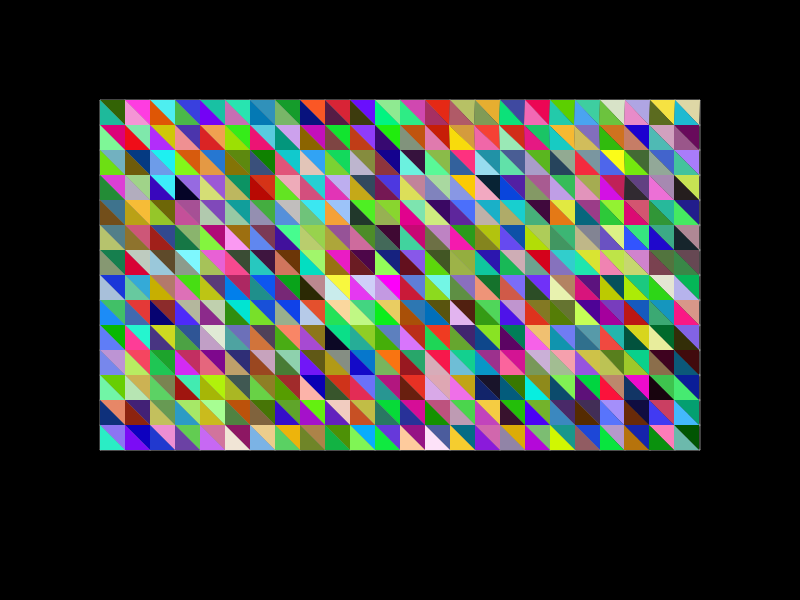
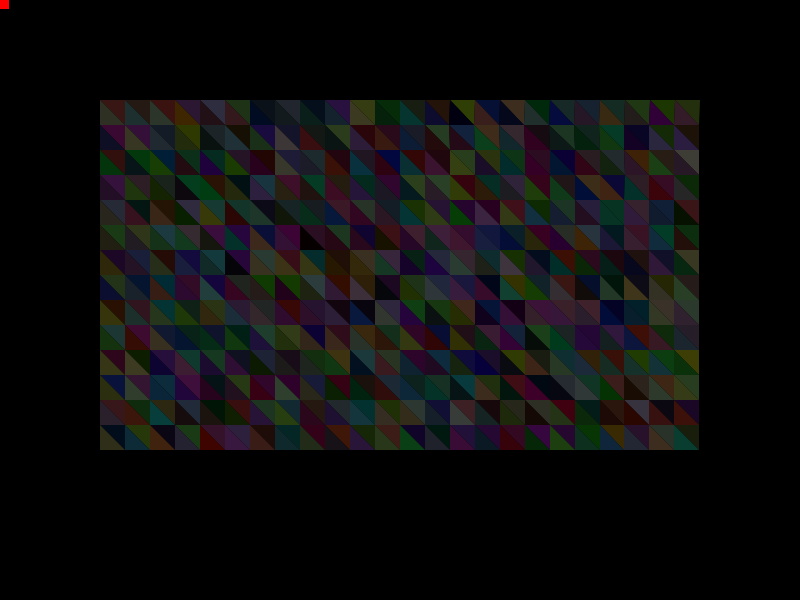
.

diff --git a/_drafts/2018-11-13-cloth-simulation-in-typescript.md b/_drafts/2018-11-13-cloth-simulation-in-typescript.md
@@ -69,9 +69,9 @@ And when the sphere is moving:
 
 I gave each of the springs a maximum stretch factor, and if it stretches more than that, it would tear:
 
-TODO
+{% include image.html url="/assets/images/posts/clothsim3d/torn.png" %}
 
-{% include image.html url="/assets/images/posts/torn.png" %}
+{% include image.html url="/assets/images/posts/clothsim3d/torn4.png" %}
 
 #### Verlet Integration
 At the core of my physics engine is a function that advances the state of the world. My initial implementation for that function consisted of simply applying Newton's laws of motion directly (the initial conditions are given by $$x_0, v_0$$):
@@ -126,15 +126,23 @@ For this project I created my own rasterization renderer. Everything (the cloth,
 
 Here we see a scene with perspective projection enabled:
 
-TODO
+{% include image.html url="/assets/images/posts/clothsim3d/proj.png" %}
+
+Here I exaggerated the effect:
+
+{% include image.html url="/assets/images/posts/clothsim3d/proj_extra.png" %}
 
 And here we see orthographic projection:
 
-TODO
+{% include image.html url="/assets/images/posts/clothsim3d/no_proj.png" %}
 
 I implemented a simple lightning model, supporting just ambient and diffuse lightning. Here is the cloth with just ambient lightning on:
 
 {% include image.html url="/assets/images/posts/clothsim3d/ambient_only.png" %}
+
+Here is the same scene with just diffuse lightning on:
+
+{% include image.html url="/assets/images/posts/clothsim3d/diffuse_only_no_sphere.png" %}
 
 And here is the same with both diffuse and ambient on:
 
@@ -143,6 +151,10 @@ And here is the same with both diffuse and ambient on:
 Here is a version with exaggerated diffuse lightning, without ambient light, to illustrate the difference:
 
 {% include image.html url="/assets/images/posts/clothsim3d/diffuse_only.png" %}
+
+And finally here's a version with even more diffuse light and some ambient light:
+
+{% include image.html url="/assets/images/posts/clothsim3d/overexposed.png" %}
 
 #### Triangulating the Sphere
 Another interesting aspect of this project was rendering the red sphere. While I am using a true sphere for the physics calculations (it is much easier to have my vertices collide with a true sphere than a polygonal mesh), since my engine for this project was rasterization based, I need some way to approximate a sphere with triangles. What I ended up doing (and produced the best results) was to create an icosahedron and tesselate it. I really tried to avoid this though (I didn't have connection on the flight and writing the equations for the vertices of the icosahedron was not trivial). My idea was to take any simple shape (a pyramid or a cube) for which calculating the positions of the vertices is trivial, and repeatedly subdivide the faces and normalize the vertices.
